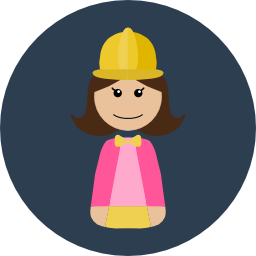
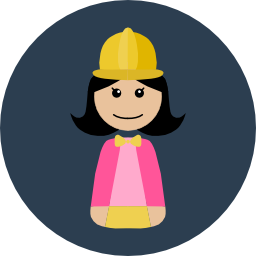
Updated female colors and added correct date to footer.

Changed region(s): [[0.2812, 0.2812, 0.7188, 0.5312], [0.4375, 0.4375, 0.5625, 0.4688]]

diff --git a/theme/templates/footer.html b/theme/templates/footer.html
@@ -28,6 +28,7 @@
           </ul>
         </div>
         <div class="footer-col col-md-4">
+          <h3>Department</h3>
           <p>
             Mechanical and Aerospace Engineering
             <br>
@@ -48,11 +49,12 @@
     <div class="container">
       <div class="row">
         <div class="col-lg-12">
-          <p>Copyright &copy; Jason K. Moore 2014</p>
+          <p>Copyright &copy; Jason K. Moore 2015</p>
           <p>This theme is based on the Freelancer theme at <a
-          huttlref="http://startbootstrap.com" target="_blank" >Start Bootstrap</a>
-          and the Pelican port at <a
-          href="http://github.com/ondeheer/freelancer">fix me</a></p>
+          href="http://startbootstrap.com/template-overviews/freelancer" target="_blank" >Start Bootstrap</a>
+          and the <a
+          href="https://github.com/ondoheer/freelancer-theme-pelican">Pelican
+          port</a> by ondoheer.</p>
         </div>
       </div>
     </div>
